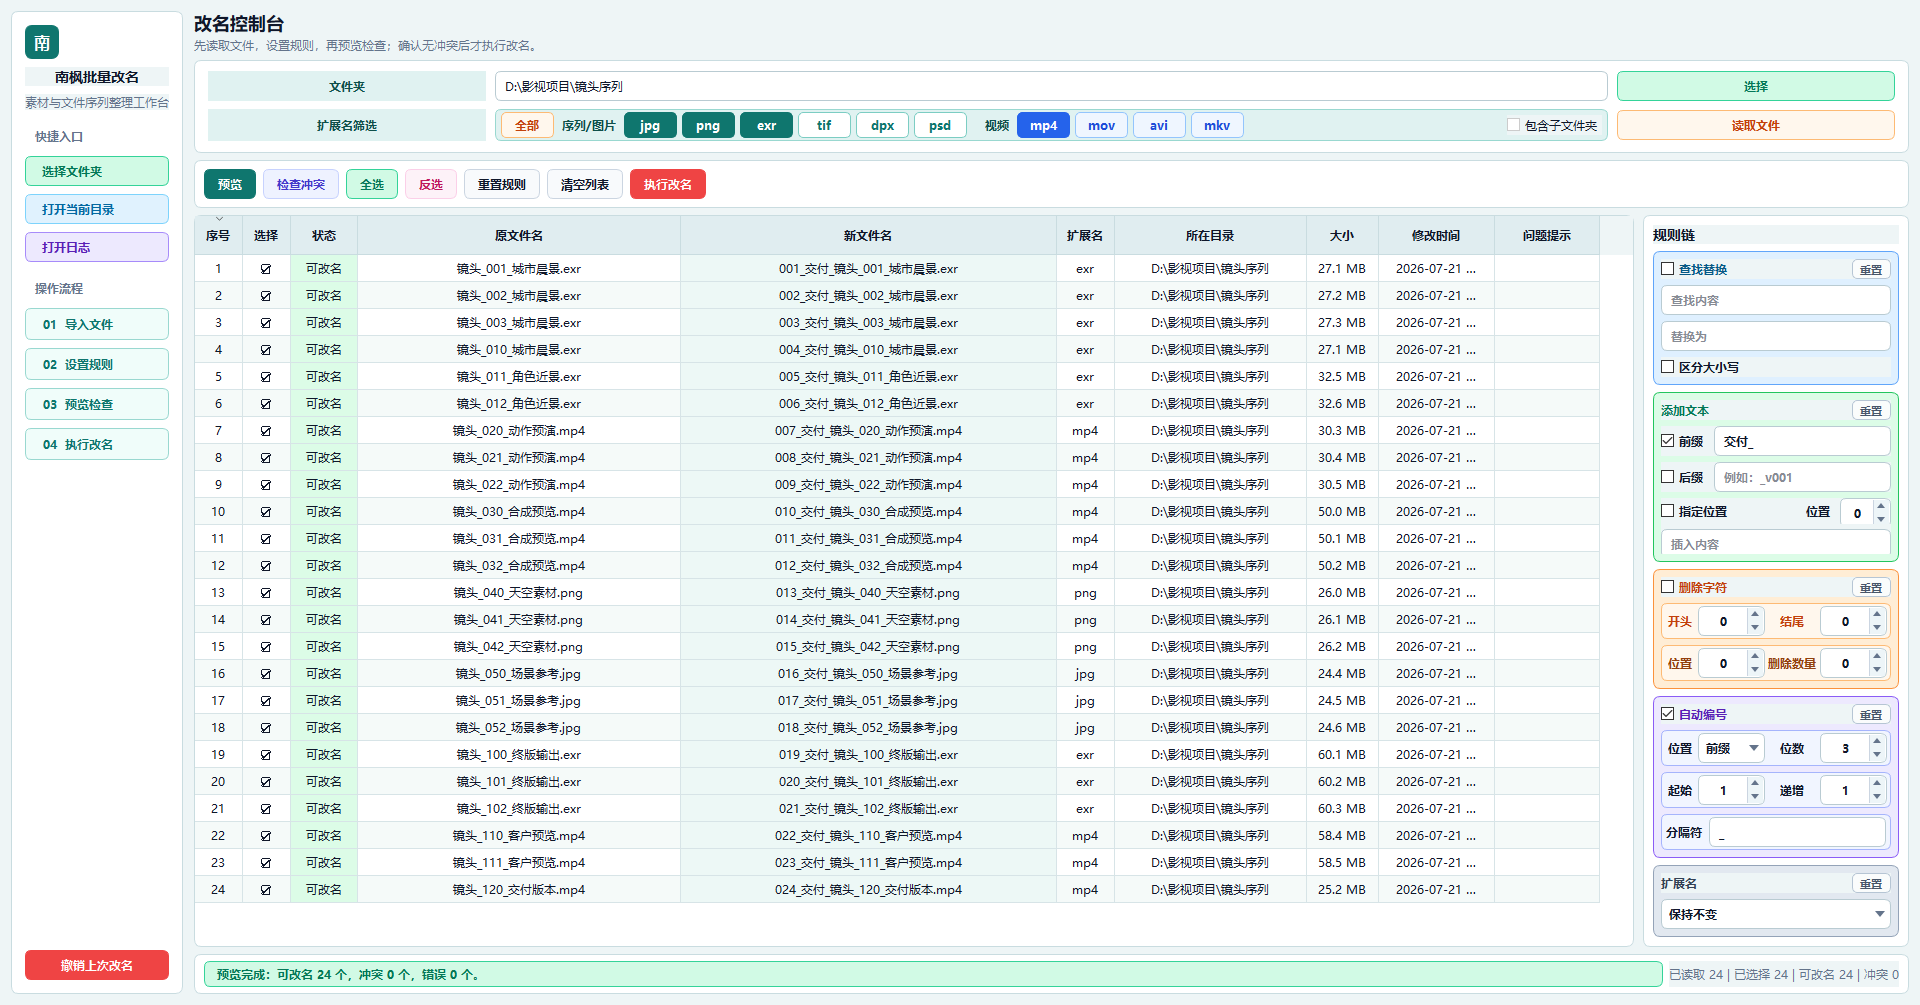
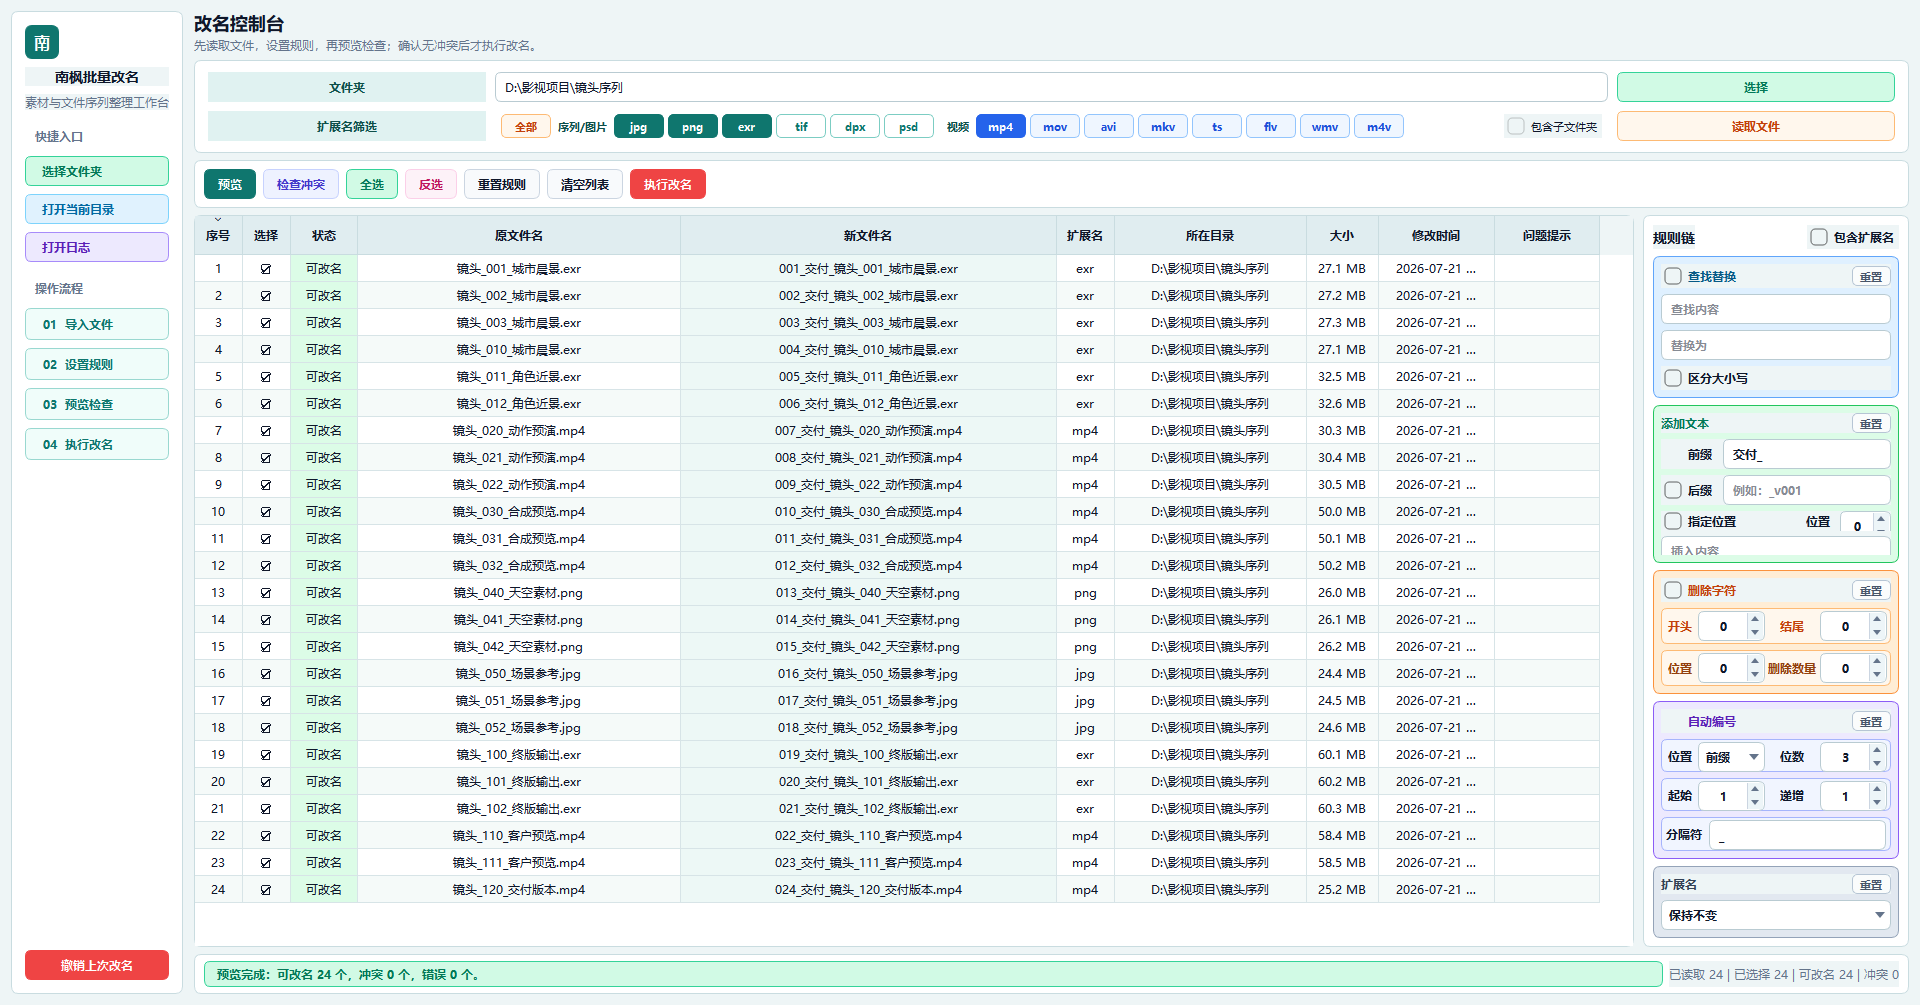
Release v1.1.5: extension scope and compact video filters

diff --git a/src/batch_renamer/app.py b/src/batch_renamer/app.py
@@ -203,6 +203,26 @@ class IconComboBox(QComboBox):
         self._arrow_label.setGeometry(self.width() - drop_width, inset, arrow_width, self.height() - inset * 2)
 
 
+class ExtensionFilterPanel(QWidget):
+    """Keep the filter row proportional when its available width is constrained."""
+
+    def resizeEvent(self, event: QEvent) -> None:
+        super().resizeEvent(event)
+        self.fit_contents()
+
+    def fit_contents(self) -> None:
+        base_scale = getattr(self.window(), "_ui_scale", 1.0)
+        scale = min(base_scale, max(0.3, self.width() / 1180))
+        font_size = max(6, int(13 * scale))
+        padding = max(1, int(8 * scale))
+        self.setStyleSheet(
+            f"#extensionFilter QPushButton, #extensionFilter QLabel, #extensionFilter QCheckBox {{ font-size: {font_size}px; }}"
+            f"#extensionFilter QPushButton {{ min-width: {int(42 * scale)}px; padding: {max(1, int(3 * scale))}px {padding}px; }}"
+        )
+        if self.layout():
+            self.layout().setSpacing(max(1, int(5 * scale)))
+
+
 class MainWindow(QMainWindow):
     BASE_WIDTH = 2200
     BASE_HEIGHT = 1152
@@ -361,6 +381,8 @@ class MainWindow(QMainWindow):
         for label in self.findChildren(QLabel):
             label.setWordWrap(False)
 
+        for panel in self.findChildren(ExtensionFilterPanel):
+            panel.fit_contents()
         self._apply_current_status_style()
         if self.centralWidget() and self.centralWidget().layout():
             self.centralWidget().layout().activate()
@@ -552,7 +574,7 @@ class MainWindow(QMainWindow):
         return label
 
     def _build_extension_filter(self) -> QWidget:
-        panel = QWidget()
+        panel = ExtensionFilterPanel()
         panel.setObjectName("extensionFilter")
         layout = QHBoxLayout(panel)
         layout.setContentsMargins(6, 3, 6, 3)
@@ -578,9 +600,9 @@ class MainWindow(QMainWindow):
             self.extension_buttons[ext] = btn
             layout.addWidget(btn)
 
-        layout.addSpacing(10)
+        layout.addSpacing(6)
         layout.addWidget(self._extension_group_label("视频"))
-        for ext in ("mp4", "mov", "avi", "mkv"):
+        for ext in ("mp4", "mov", "avi", "mkv", "ts", "flv", "wmv", "m4v"):
             btn = QPushButton(ext)
             btn.setObjectName("extensionVideoChip")
             btn.setCheckable(True)
@@ -590,7 +612,7 @@ class MainWindow(QMainWindow):
             layout.addWidget(btn)
 
         layout.addStretch(1)
-        layout.addWidget(self.include_subfolders)
+        layout.addWidget(self.include_subfolders, 0, Qt.AlignmentFlag.AlignVCenter)
         return panel
 
     def _extension_group_label(self, text: str) -> QLabel:
@@ -712,7 +734,14 @@ class MainWindow(QMainWindow):
 
         title = QLabel("规则链")
         title.setObjectName("sectionTitle")
-        layout.addWidget(title)
+        heading = QHBoxLayout()
+        heading.addWidget(title)
+        heading.addStretch()
+        self.include_extension = QCheckBox("包含扩展名")
+        self.include_extension.setAccessibleName("改名范围：包含扩展名")
+        self.include_extension.setToolTip("勾选后，查找替换、添加、删除和编号统一作用于完整文件名（含点号和扩展名）；扩展名大小写最后处理。")
+        heading.addWidget(self.include_extension)
+        layout.addLayout(heading)
 
         self.find_enabled = QCheckBox("查找替换")
         self.find_text = QLineEdit()
@@ -1086,6 +1115,7 @@ class MainWindow(QMainWindow):
 
     def collect_settings(self) -> RuleSettings:
         return RuleSettings(
+            include_extension=self.include_extension.isChecked(),
             find_enabled=self.find_enabled.isChecked(),
             find_text=self.find_text.text(),
             replace_text=self.replace_text.text(),
@@ -1263,6 +1293,7 @@ class MainWindow(QMainWindow):
             self.live_preview()
 
     def reset_rules(self) -> None:
+        self.include_extension.setChecked(False)
         self.reset_find_rule(update_status=False)
         self.reset_add_rule(update_status=False)
         self.reset_trim_rule(update_status=False)
@@ -1273,6 +1304,7 @@ class MainWindow(QMainWindow):
 
     def _connect_rule_live_preview(self) -> None:
         checkboxes = (
+            self.include_extension,
             self.find_enabled,
             self.case_sensitive,
             self.prefix_enabled,

diff --git a/tests/test_ui_contracts.py b/tests/test_ui_contracts.py
@@ -40,6 +40,50 @@ class UiContractTests(unittest.TestCase):
         self.window.deleteLater()
         self.app.processEvents()
 
+    def test_extension_scope_toggle_updates_preview_and_global_reset(self) -> None:
+        with tempfile.TemporaryDirectory() as temp_dir:
+            path = Path(temp_dir) / "film.mkv1"
+            path.write_text("sample", encoding="utf-8")
+            self.window.items = [FileItem(path)]
+            self.window.refresh_table()
+            self.window.find_enabled.setChecked(True)
+            self.window.find_text.setText("mkv1")
+            self.window.replace_text.setText("mkv")
+            QTest.qWait(self.window._live_preview_timer.interval() + 80)
+            self.assertEqual(self.window.items[0].new_name, "film.mkv1")
+            self.window.include_extension.setChecked(True)
+            QTest.qWait(self.window._live_preview_timer.interval() + 80)
+            self.assertEqual(self.window.table.item(0, 4).text(), "film.mkv")
+            self.window.reset_add_rule()
+            self.assertTrue(self.window.include_extension.isChecked())
+            self.window.include_extension.setChecked(False)
+            QTest.qWait(self.window._live_preview_timer.interval() + 80)
+            self.assertEqual(self.window.items[0].new_name, "film.mkv1")
+            self.window.include_extension.setChecked(True)
+            self.window.reset_rules()
+            self.assertFalse(self.window.collect_settings().include_extension)
+
+    def test_extension_rows_fit_without_overlap_at_supported_sizes(self) -> None:
+        for removed in ("m2ts", "mts", "webm", "mpg", "mpeg"):
+            self.assertNotIn(removed, self.window.extension_buttons)
+        for width, height in ((1280, 720), (1366, 768), (1600, 900), (1920, 1080), (2200, 1152)):
+            with self.subTest(size=(width, height)):
+                scale = self.window.scale_for_available_size(width, height)
+                self.window.apply_ui_scale(scale)
+                self.window.resize(ceil(self.window.BASE_WIDTH * scale), ceil(self.window.BASE_HEIGHT * scale))
+                self.app.processEvents()
+                buttons = list(self.window.extension_buttons.values())
+                panel = buttons[0].parentWidget()
+                for button in buttons:
+                    self.assertTrue(panel.rect().contains(button.geometry()))
+                    self.assertGreaterEqual(button.height(), button.fontMetrics().height())
+                    self.assertGreaterEqual(button.width(), button.fontMetrics().horizontalAdvance(button.text()))
+                for index, button in enumerate(buttons):
+                    for other in buttons[index + 1:]:
+                        self.assertFalse(button.geometry().intersects(other.geometry()))
+                source = panel.parentWidget()
+                self.assertTrue(source.rect().contains(panel.geometry()))
+
     def test_final_workbench_identity_and_primary_layout_contract(self) -> None:
         self.assertEqual(self.window.windowTitle(), "南枫批量改名")
         expected_icon = QIcon(str(PROJECT_ROOT / "build_assets" / "app_icon.png"))

diff --git a/tests/test_core_contracts.py b/tests/test_core_contracts.py
@@ -19,6 +19,46 @@ from batch_renamer.core.scanner import scan_files
 
 
 class RuleContractTests(unittest.TestCase):
+    def test_extension_scope_applies_to_every_text_rule(self) -> None:
+        cases = [
+            (dict(find_enabled=True, find_text="mkv1", replace_text="mkv"), "film.mkv"),
+            (dict(trim_enabled=True, trim_right=1), "film.mkv"),
+            (dict(prefix_enabled=True, prefix_text="P_"), "P_film.mkv1"),
+            (dict(suffix_enabled=True, suffix_text="X"), "film.mkv1X"),
+            (dict(insert_enabled=True, insert_position=9, insert_text="X"), "film.mkv1X"),
+            (dict(number_enabled=True, number_position="后缀", number_digits=1), "film.mkv1_1"),
+        ]
+        for values, expected in cases:
+            with self.subTest(values=values):
+                actual = apply_rules("film", ".mkv1", RuleSettings(include_extension=True, **values), 0)
+                self.assertEqual("".join(actual), expected)
+        settings = RuleSettings(find_enabled=True, find_text="mkv1", replace_text="MKV")
+        self.assertEqual(apply_rules("film", ".mkv1", settings, 0), ("film", ".mkv1"))
+        settings.include_extension = True
+        settings.extension_mode = "统一小写"
+        self.assertEqual(apply_rules("film", ".mkv1", settings, 0), ("film", ".mkv"))
+        settings.find_text, settings.replace_text = ".mkv1", ""
+        self.assertEqual(apply_rules("film", ".mkv1", settings, 0), ("film", ""))
+
+    def test_extension_scope_preview_execute_undo_and_conflict(self) -> None:
+        with tempfile.TemporaryDirectory() as temp_dir:
+            root = Path(temp_dir)
+            paths = [root / "film.mkv1", root / "other.mp41"]
+            for path in paths:
+                path.write_text(path.name, encoding="utf-8")
+            items = [FileItem(path) for path in paths]
+            settings = RuleSettings(include_extension=True, trim_enabled=True, trim_right=1)
+            build_preview(items, settings)
+            self.assertEqual([item.new_name for item in items], ["film.mkv", "other.mp4"])
+            executor = RenameExecutor(root / "logs")
+            self.assertTrue(all(result.ok for result in executor.execute(build_plans(items))))
+            self.assertEqual((root / "film.mkv").read_text(encoding="utf-8"), "film.mkv1")
+            self.assertTrue(all(result.ok for result in executor.undo_last()))
+            self.assertTrue(all(path.exists() for path in paths))
+            (root / "film.mkv").write_text("existing", encoding="utf-8")
+            build_preview(items, settings)
+            self.assertEqual(items[0].status, "冲突")
+
     def test_combined_rules_follow_the_documented_order(self) -> None:
         settings = RuleSettings(
             find_enabled=True,

diff --git a/src/batch_renamer/core/rules.py b/src/batch_renamer/core/rules.py
@@ -1,12 +1,14 @@
 from __future__ import annotations
 
+from pathlib import Path
+
 from .models import RuleSettings
 
 
 def apply_rules(stem: str, suffix: str, settings: RuleSettings, index: int) -> tuple[str, str]:
     """按固定规则链生成新文件名主体和扩展名。"""
 
-    name = stem
+    name = f"{stem}{suffix}" if settings.include_extension else stem
 
     if settings.find_enabled and settings.find_text:
         if settings.find_case_sensitive:
@@ -48,10 +50,14 @@ def apply_rules(stem: str, suffix: str, settings: RuleSettings, index: int) -> t
             name = f"{name}{sep}{number_text}" if sep else f"{name}{number_text}"
 
     new_suffix = suffix
+    if settings.include_extension:
+        new_suffix = Path(name).suffix
+        if new_suffix:
+            name = name[:-len(new_suffix)]
     if settings.extension_mode == "统一小写":
-        new_suffix = suffix.lower()
+        new_suffix = new_suffix.lower()
     elif settings.extension_mode == "统一大写":
-        new_suffix = suffix.upper()
+        new_suffix = new_suffix.upper()
 
     return name, new_suffix
 

diff --git a/src/batch_renamer/core/models.py b/src/batch_renamer/core/models.py
@@ -86,4 +86,6 @@ class RuleSettings:
 
     extension_mode: Literal["保持不变", "统一小写", "统一大写"] = "保持不变"
 
+    include_extension: bool = False
+
     notes: list[str] = field(default_factory=list)

diff --git a/src/batch_renamer/__init__.py b/src/batch_renamer/__init__.py
@@ -1,3 +1,3 @@
 """南枫批量改名工具。"""
 
-__version__ = "1.1.4"
+__version__ = "1.1.5"

diff --git a/docs/CURRENT_HANDOFF.md b/docs/CURRENT_HANDOFF.md
@@ -1,6 +1,20 @@
 # 南枫批量改名当前交接
 
-## 当前任务
+## 2026-09-10 Windows v1.1.5
+
+- 本次交付：包含扩展名全局范围、ts/flv/wmv/m4v 筛选、单行筛选自动缩小字号与间距。
+- 29 项测试、compileall、图标合同、PyInstaller 与 Inno Setup 构建通过；脱敏 README 预览已刷新。
+- 构建脚本隔离 PATH，避免混入外部工具 DLL；最终 EXE 已验证正常创建窗口并响应，随后关闭验证窗口。
+- 未覆盖本机已安装版本，未操作用户文件；安装包供用户升级。
+
+## 2026-09-09 扩展名改名范围
+
+- 已在规则链标题旁增加“包含扩展名”，默认关闭，勾选后所有文本规则统一处理完整文件名。
+- 示例：替换 mkv1 为 mkv；或删除结尾 1 个字符同时修正 .mkv1 与 .mp41。
+- 验证：28 项 unittest 全部通过，compileall 通过；包含 UI 实时切换、默认兼容、所有文本规则、冲突、临时文件执行与撤销。
+- 本轮仅修改源码和文档，未重新打包、安装、发布，也未操作用户文件。已安装版仍为此前发布版本。
+
+## 历史发布任务
 
 - 目标：修复 Windows 桌面与第三方桌面整理器复用旧方形图标缓存，并发布 Windows `v1.1.4`。
 - 发布基准：GitHub Release `v1.1.4`，主资产为 Inno Setup 7 x64 安装程序。

diff --git a/README.md b/README.md
@@ -36,11 +36,11 @@ logs\app_stdout.txt
 
 GitHub Release 默认提供 Inno Setup 7 x64 Windows 安装程序。BAT 启动器保留用于源码调试与问题排查。
 
-Windows v1.1.4 发布文件：
+Windows v1.1.5 发布文件：
 
 ```text
-NanfengBatchRenamer-Windows-v1.1.4-Setup.exe
-NanfengBatchRenamer-Windows-v1.1.4-Setup.exe.sha256
+NanfengBatchRenamer-Windows-v1.1.5-Setup.exe
+NanfengBatchRenamer-Windows-v1.1.5-Setup.exe.sha256
 ```
 
 升级后若第三方桌面整理软件仍显示旧图标，请重启该桌面整理软件一次。安装程序已让快捷方式引用版本化 ICO，但第三方整理软件可能继续保留旧快捷方式位图缓存。

diff --git a/docs/domain-rules.md b/docs/domain-rules.md
@@ -19,6 +19,8 @@
 6. 自动编号；
 7. 扩展名大小写转换。
 
+改名范围默认仅主文件名；规则链标题旁的“包含扩展名”勾选后，前六步统一处理完整文件名（含点号），第七步处理变换后的最后一段扩展名。添加后缀和后缀编号此时位于完整文件名末尾。切换范围立即触发预览；分组重置保留范围，总重置恢复不勾选。
+
 中间删除使用“位置 + 删除数量”：位置从 1 开始；位置或数量为 0 时不执行中间删除。自动编号只按当前选中项的顺序递增。
 
 ## 预览、状态与执行

diff --git a/docs/release-notes-v1.1.5.md b/docs/release-notes-v1.1.5.md
@@ -1,0 +1,8 @@
+# 南枫批量改名 Windows v1.1.5
+
+- 新增全局“包含扩展名”，替换、添加、删除、插入和编号可统一处理完整文件名。
+- 视频筛选新增 ts、flv、wmv、m4v，图片和视频保持单行；空间不足时缩小字号与间距。
+- 包含子文件夹选项保持垂直居中（递归读取仍未开放）。
+- 29 项自动测试通过，覆盖预览、冲突、临时文件执行与撤销及五档窗口尺寸。
+
+下载 Setup.exe 安装程序；sha256 文件用于完整性校验。未进行代码签名或全新机器验收。
